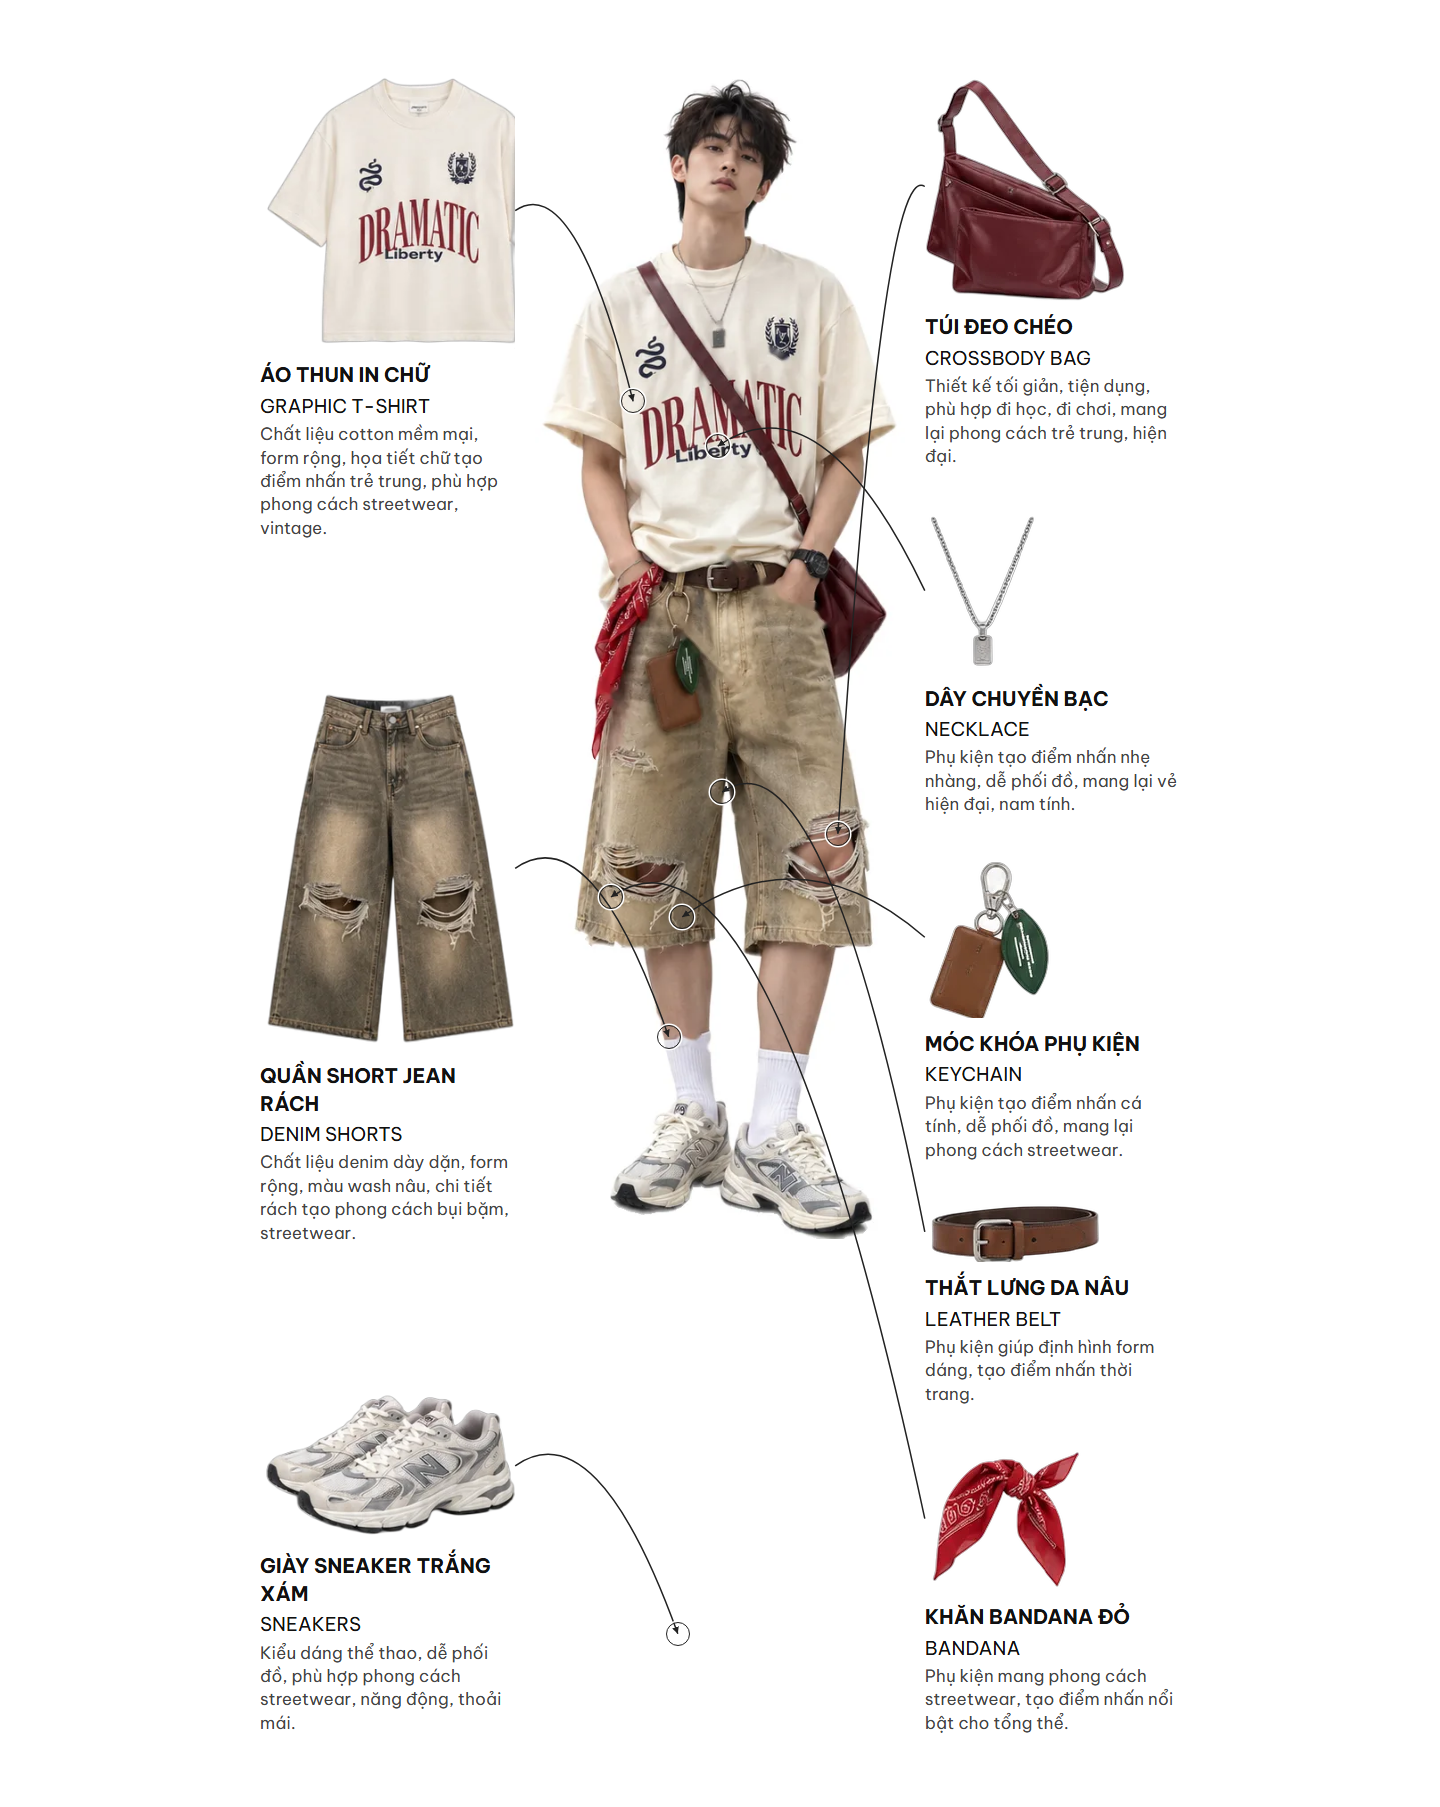
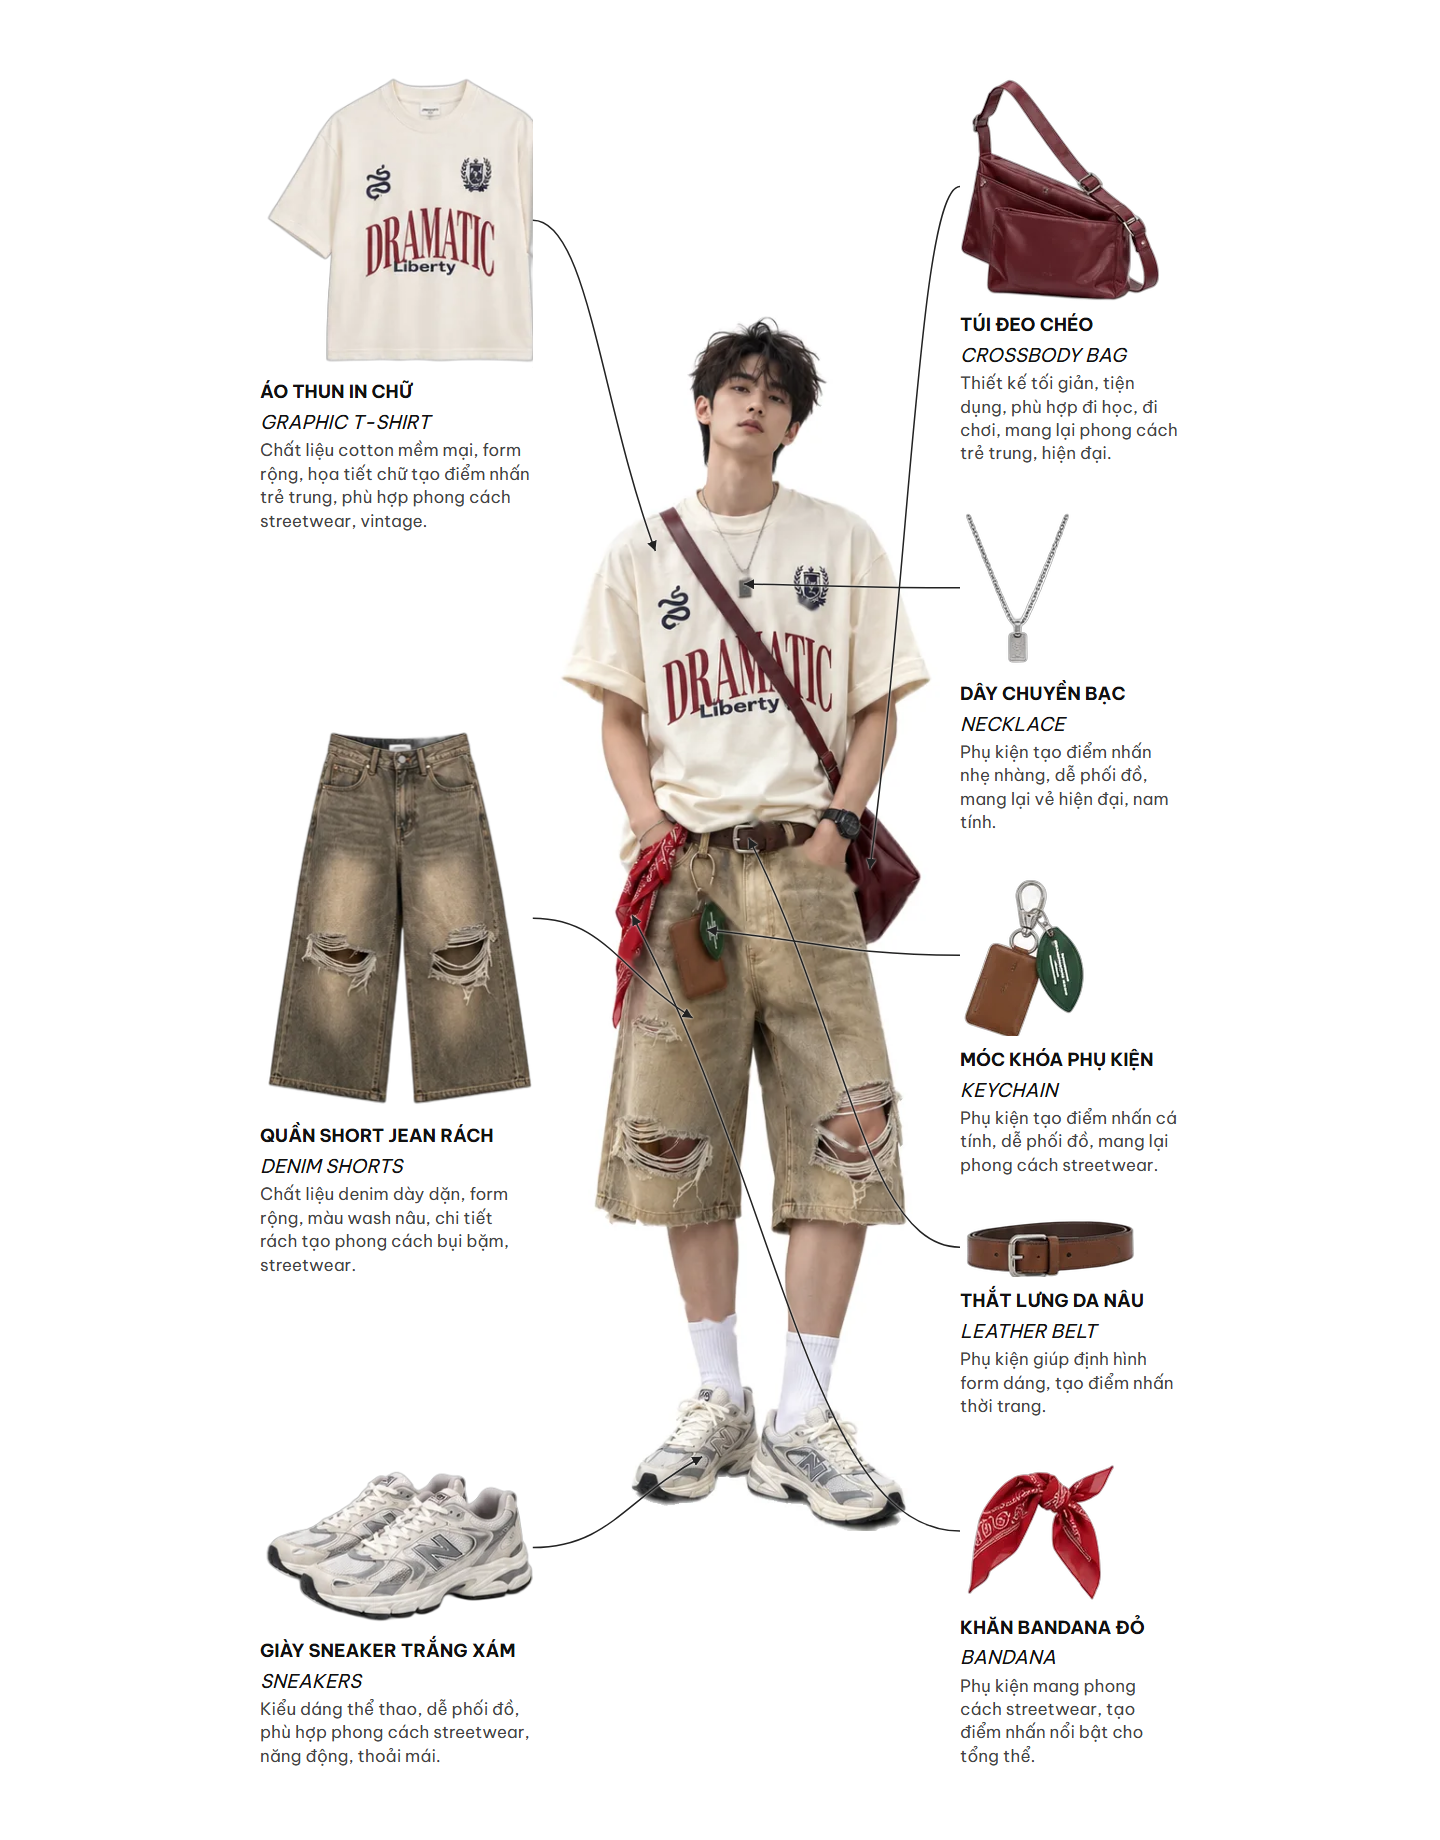
fix: align lookbook with reference design and anchor hotspots to the model image
Cubic connector curves with visible arrowheads, hotspots hidden at rest, italic subtitles, retuned column tokens, pins instead of threads on small screens. The model figure no longer stretches to the grid row, which shifted every hotspot below its anchor; an e2e test now checks hotspot alignment.

Changed region(s): [[0.1562, 0.031, 0.8125, 0.9607], [0.1875, 0.7748, 0.375, 0.9607]]

diff --git a/apps/web/src/components/lookbook/lookbook.module.css b/apps/web/src/components/lookbook/lookbook.module.css
@@ -72,6 +72,7 @@
 .itemSubtitle {
   font-size: var(--lookbook-subtitle-size);
   font-weight: var(--font-weight-regular);
+  font-style: italic;
   line-height: var(--lookbook-line-height);
   color: var(--color-ink);
 }
@@ -84,6 +85,8 @@
 
 .model {
   position: relative;
+  /* Hotspots are positioned in % of this box, so it must be exactly the image's height, not the stretched row. */
+  align-self: center;
   min-width: 0;
   margin: 0;
 }
@@ -91,21 +94,33 @@
 .hotspot {
   position: absolute;
   z-index: 2;
-  width: var(--space-5);
-  height: var(--space-5);
+  width: var(--lookbook-hotspot-size);
+  height: var(--lookbook-hotspot-size);
   transform: translate(-50%, -50%);
-  border: var(--lookbook-connector-width) solid var(--color-line);
   border-radius: 50%;
-  box-shadow: 0 0 0 var(--lookbook-connector-width) var(--color-page);
+  background: transparent;
   transition: opacity var(--duration-base) var(--easing-standard);
 }
 
+/* Invisible at rest (the reference shows no circles); a ring appears only for the active item. */
 .hotspot::after {
   content: '';
   position: absolute;
-  inset: calc(var(--lookbook-connector-width) * -1);
+  inset: calc(50% - var(--lookbook-hotspot-ring-size) / 2);
+  border: var(--lookbook-connector-width) solid var(--color-line);
   border-radius: 50%;
+  background: var(--lookbook-hotspot-ring-bg);
+  opacity: 0;
+  transform: scale(0.5);
   pointer-events: none;
+  transition:
+    opacity var(--duration-base) var(--easing-standard),
+    transform var(--duration-base) var(--easing-standard);
+}
+
+.hotspot[data-active]::after {
+  opacity: 1;
+  transform: scale(1);
 }
 
 .connectors {
@@ -116,6 +131,8 @@
   height: 100%;
   overflow: visible;
   pointer-events: none;
+  /* Light halo keeps threads and arrowheads readable over dark garments, as in the reference. */
+  filter: drop-shadow(0 0 var(--lookbook-connector-halo) var(--color-page));
 }
 
 .connector {
@@ -147,23 +164,20 @@
   filter: drop-shadow(0 var(--space-1) var(--space-2) var(--color-muted));
 }
 
-.hotspot[data-active]::after {
-  animation: lookbook-pulse calc(var(--duration-base) * 4) var(--easing-standard) infinite;
-}
-
-@keyframes lookbook-pulse {
-  from {
-    box-shadow: 0 0 0 0 var(--color-line);
-  }
-  to {
-    box-shadow: 0 0 0 var(--space-3) transparent;
-  }
-}
-
 /* Breakpoint mirrors --lookbook-hide-description-below (640px); media queries cannot read custom properties. */
 @media (max-width: 639.98px) {
   .itemDescription {
     display: none;
+  }
+
+  /* Threads would tangle over the small model: show pins instead and let the item list carry the link. */
+  .connectors {
+    display: none;
+  }
+
+  .hotspot::after {
+    opacity: 1;
+    transform: scale(1);
   }
 }
 
@@ -175,7 +189,7 @@
     transition: none;
   }
 
-  .hotspot[data-active]::after {
-    animation: none;
+  .hotspot::after {
+    transition: none;
   }
 }

diff --git a/apps/web/test/lookbook/compute-connector-paths.test.ts b/apps/web/test/lookbook/compute-connector-paths.test.ts
@@ -12,21 +12,31 @@ const right: ConnectorInput = {
 };
 
 describe('computeConnectorPath', () => {
-  it('starts at the inner (right) edge of a left item image and ends at the hotspot', () => {
-    expect(computeConnectorPath(left, 0.5).d).toBe('M 100 150 Q 200 -50 300 50');
+  it('leaves the inner (right) edge of a left item horizontally and ends at the anchor', () => {
+    expect(computeConnectorPath(left, 0.5).d).toBe('M 100 150 C 200 150 200 100 300 50');
   });
 
-  it('starts at the inner (left) edge of a right item image', () => {
-    expect(computeConnectorPath(right, 0.5).d).toBe('M 500 150 Q 400 50 300 400');
+  it('leaves the inner (left) edge of a right item horizontally', () => {
+    expect(computeConnectorPath(right, 0.5).d).toBe('M 500 150 C 400 150 400 275 300 400');
   });
 
-  it('bows above the higher of the two endpoints when the hotspot is lower than the image', () => {
+  it('curves down when the anchor is lower than the item', () => {
     const { d } = computeConnectorPath({ ...left, end: { x: 300, y: 500 } }, 0.5);
-    expect(d).toBe('M 100 150 Q 200 50 300 500');
+    expect(d).toBe('M 100 150 C 200 150 200 325 300 500');
   });
 
-  it('is a straight-ish line when the ratio is 0', () => {
-    expect(computeConnectorPath(left, 0).d).toBe('M 100 150 Q 200 50 300 50');
+  it('curves up when the anchor is higher than the item', () => {
+    const { d } = computeConnectorPath(left, 0.25);
+    expect(d).toBe('M 100 150 C 150 150 250 75 300 50');
+  });
+
+  it('is a straight line when the ratio is 0', () => {
+    expect(computeConnectorPath(left, 0).d).toBe('M 100 150 C 100 150 300 50 300 50');
+  });
+
+  it('keeps the first handle on the start y so the thread leaves horizontally', () => {
+    const nums = computeConnectorPath(right, 0.4).d.match(/-?\d+(\.\d+)?/g)!.map(Number);
+    expect(nums[3]).toBe(nums[1]);
   });
 
   it('keeps the id of its input', () => {
@@ -38,7 +48,7 @@ describe('computeConnectorPaths', () => {
   it('maps every input and falls back to ratio 0 for a non-finite ratio', () => {
     const paths = computeConnectorPaths([left, right], Number.NaN);
     expect(paths.map((p) => p.id)).toEqual(['a', 'b']);
-    expect(paths[0]?.d).toBe('M 100 150 Q 200 50 300 50');
+    expect(paths[0]?.d).toBe('M 100 150 C 100 150 300 50 300 50');
   });
 
   it('returns an empty list for no input', () => {

diff --git a/apps/web/src/components/lookbook/compute-connector-paths.ts b/apps/web/src/components/lookbook/compute-connector-paths.ts
@@ -12,7 +12,7 @@ export interface ConnectorInput {
   id: string;
   side: ConnectorSide;
   image: RelativeRect;
-  /** Hotspot centre, relative to the lookbook root. */
+  /** Anchor point on the model (hotspot centre), relative to the lookbook root. */
   end: { x: number; y: number };
 }
 
@@ -23,17 +23,22 @@ export interface ConnectorPath {
 
 const round = (n: number): number => Math.round(n * 100) / 100;
 
-/** Quadratic curve from the inner edge of the item image to the hotspot, bowing upward. */
+/**
+ * Cubic curve from the inner edge of the item image to the anchor. It leaves the item horizontally
+ * and bends toward the anchor, so it curves down for a lower anchor and up for a higher one.
+ * `curveRatio` is the share of the horizontal span used for both handles (about 0.1 to 0.5).
+ */
 export function computeConnectorPath(input: ConnectorInput, curveRatio: number): ConnectorPath {
   const { image, side, end } = input;
   const sx = side === 'left' ? image.right : image.left;
   const sy = (image.top + image.bottom) / 2;
-  const cx = (sx + end.x) / 2;
-  const cy = Math.min(sy, end.y) - Math.abs(end.x - sx) * curveRatio;
-  return {
-    id: input.id,
-    d: `M ${round(sx)} ${round(sy)} Q ${round(cx)} ${round(cy)} ${round(end.x)} ${round(end.y)}`,
-  };
+  const dx = end.x - sx;
+  const dy = end.y - sy;
+  const c1x = sx + dx * curveRatio;
+  const c2x = end.x - dx * curveRatio;
+  const c2y = end.y - dy * curveRatio;
+  const pts = [sx, sy, c1x, sy, c2x, c2y, end.x, end.y].map(round);
+  return { id: input.id, d: `M ${pts[0]} ${pts[1]} C ${pts[2]} ${pts[3]} ${pts[4]} ${pts[5]} ${pts[6]} ${pts[7]}` };
 }
 
 export function computeConnectorPaths(inputs: readonly ConnectorInput[], curveRatio: number): ConnectorPath[] {

diff --git a/apps/web/src/styles/design-tokens.css b/apps/web/src/styles/design-tokens.css
@@ -1,6 +1,6 @@
 /*
  * Design tokens, measured from assets-source/lookbook-samples/*-reference.png (941 x 1672).
- * Reference px -> ratio of the 941px canvas: title 20px (2.1%), description 17px (1.8%),
+ * Reference px -> ratio of the 941px canvas: title 20px (2.1%, set to 1.9% as Be Vietnam Pro is wider than the reference font), description 17px (1.8%),
  * model ~395px wide (42%), item image ~270-340px (30%), connector stroke ~1.5px.
  * Values here are defaults; change them here only, never inline in components.
  */
@@ -18,7 +18,7 @@
   --font-sans: var(--font-be-vietnam-pro), system-ui, -apple-system, 'Segoe UI', sans-serif;
   --font-weight-regular: 400;
   --font-weight-bold: 700;
-  --lookbook-title-size: clamp(11px, 2.1vw, 20px);
+  --lookbook-title-size: clamp(11px, 1.9vw, 18px);
   --lookbook-subtitle-size: clamp(11px, 2vw, 19px);
   --lookbook-description-size: clamp(11px, 1.8vw, 17px);
   --lookbook-line-height: 1.38;
@@ -43,15 +43,19 @@
 
   /* Lookbook layout: three columns, left items / model / right items */
   --lookbook-max-width: 960px;
-  --lookbook-col-left: 29fr;
-  --lookbook-col-model: 42fr;
-  --lookbook-col-right: 29fr;
+  --lookbook-col-left: 31fr;
+  --lookbook-col-model: 44fr;
+  --lookbook-col-right: 25fr;
   --lookbook-item-image-ratio: 1 / 1;
 
   /* Connector (SVG thread from item to anchor on the model) */
   --lookbook-connector-width: 1.5px;
-  --lookbook-curve-ratio: 0.35;
-  --lookbook-arrow-size: 7px;
+  --lookbook-curve-ratio: 0.45;
+  --lookbook-arrow-size: 10px;
+  --lookbook-connector-halo: 1px;
+  --lookbook-hotspot-size: 24px;
+  --lookbook-hotspot-ring-size: 12px;
+  --lookbook-hotspot-ring-bg: var(--color-page);
 
   /* Interaction */
   --lookbook-dim-opacity: 0.35;

diff --git a/e2e/public-hotspot-alignment.spec.ts b/e2e/public-hotspot-alignment.spec.ts
@@ -1,0 +1,33 @@
+/// <reference lib="dom" />
+import { test, expect } from '@playwright/test';
+
+const SLUGS = ['dramatic', 'mesh-84'];
+const WIDTHS = [1440, 390];
+const TOLERANCE_PX = 2;
+
+// Anchors are stored as % of the model image, so each hotspot centre must land on that spot of the rendered image.
+for (const slug of SLUGS) {
+  for (const width of WIDTHS) {
+    test(`hotspots sit on their anchor of the model image: ${slug} @${width}`, async ({ page }) => {
+      await page.setViewportSize({ width, height: 900 });
+      await page.goto(`/look/${slug}`);
+      const offsets = await page.evaluate(() => {
+        const figure = document.querySelector('[data-lookbook] figure');
+        const img = figure?.querySelector('img');
+        if (!figure || !img) throw new Error('model figure not found');
+        const box = img.getBoundingClientRect();
+        const figureBox = figure.getBoundingClientRect();
+        const hotspots = [...figure.querySelectorAll<HTMLElement>('[data-hotspot]')].map((el) => {
+          const r = el.getBoundingClientRect();
+          const x = box.left + (Number.parseFloat(el.style.left) / 100) * box.width;
+          const y = box.top + (Number.parseFloat(el.style.top) / 100) * box.height;
+          return Math.max(Math.abs(r.left + r.width / 2 - x), Math.abs(r.top + r.height / 2 - y));
+        });
+        return { heightGap: Math.abs(figureBox.height - box.height), hotspots };
+      });
+      expect(offsets.hotspots.length).toBeGreaterThan(0);
+      expect(offsets.heightGap).toBeLessThanOrEqual(TOLERANCE_PX);
+      for (const offset of offsets.hotspots) expect(offset).toBeLessThanOrEqual(TOLERANCE_PX);
+    });
+  }
+}

diff --git a/plans/reports/fullstack-developer-261106-1800-lookbook-match-reference.md b/plans/reports/fullstack-developer-261106-1800-lookbook-match-reference.md
@@ -1,0 +1,33 @@
+# Báo cáo: lookbook công khai khớp ảnh mẫu
+
+## Thay đổi (chỉ trong file được giao)
+- `apps/web/src/components/lookbook/compute-connector-paths.ts`: quadratic -> cubic Bézier. Điểm điều khiển 1 nằm ngang với điểm đầu (sx + dx*r, sy); điểm điều khiển 2 = (ex - dx*r, ey - dy*r). Đường rời thẻ theo phương ngang, cong xuống khi điểm neo thấp hơn, cong lên khi cao hơn. Đầu mũi tên nằm đúng điểm neo.
+- `lookbook.module.css`: hotspot trong suốt khi nghỉ (vùng bấm 24px, `:focus-visible` giữ nguyên từ globals.css); khi `data-active` hiện vòng tròn nhỏ 12px (nền trắng, viền tối). Subtitle `font-style: italic`. Thêm halo sáng quanh SVG để thread/mũi tên đọc được trên vùng tối (như ảnh mẫu).
+- `design-tokens.css`: `--lookbook-curve-ratio` 0.35 -> 0.45 (chọn bằng so ảnh); `--lookbook-arrow-size` 7 -> 10px; token mới `--lookbook-hotspot-size`, `--lookbook-hotspot-ring-size`, `--lookbook-hotspot-ring-bg`, `--lookbook-connector-halo`; cột 29/42/29 -> 31/44/25fr; cỡ tiêu đề clamp(11px, 1.9vw, 18px) (font Be Vietnam Pro rộng hơn font mẫu, nên không giữ 2.1%/20px). Tiêu đề "QUẦN SHORT JEAN RỘNG" nay một dòng ở 1440.
+- `apps/web/test/lookbook/compute-connector-paths.test.ts`: viết lại cho toán cubic (xuống/lên, ratio 0, handle đầu giữ y). Không xoá test.
+- e2e: không cần đổi, giữ nguyên `data-lookbook`, `data-active-id`, `data-active`, `path[data-item-id]`.
+
+## Mobile (dưới 640px): chọn ẩn thread, hiện pin
+Thread trên model ~130px rộng cắt chéo, chồng nhau (xem ảnh trước đó trong tester-261106-1737). Chọn: ẩn SVG thread, hiện vòng tròn nhỏ cố định trên hotspot để vẫn thấy điểm trên người mẫu và bấm được (24px). Lý do: thread nhạt hơn vẫn chồng nhau vì các điểm neo dồn cụm; pin đọc rõ hơn và danh sách món bên cạnh vẫn là đường link chính. Mô tả vẫn ẩn dưới 640px. 390 và 320: không tràn ngang, chữ >= 11px (e2e xác nhận).
+
+## Lệnh và kết quả
+- `pnpm --filter @under30ss/web test`: 28 file, 166 test pass.
+- `pnpm lint`: 0 lỗi, 1 warning có sẵn (`apps/api/test/outfits-admin-crud.test.ts:29`).
+- `pnpm typecheck`: pass (một lần chạy đầu api báo fail trong lúc chạy song song, chạy lại pass; chưa rõ nguyên nhân, không liên quan file đã sửa).
+- Rebuild web (docker compose up -d --build web), `pnpm e2e`: 13/13 pass, hai lần liên tiếp (8.1s, 7.5s).
+
+## Ảnh (plans/261106-1201-under30ss-shop-the-look/visuals/)
+- Trước: `e2e-compare-mesh-84-1440-vs-ref.png`, `e2e-compare-dramatic-1440-vs-ref.png`.
+- Sau: `e2e-compare-mesh-84-1440-vs-ref-after.png`, `e2e-compare-dramatic-1440-vs-ref-after.png`, `e2e-mesh-84-390-after.png`, `e2e-dramatic-390-after.png`.
+- Ảnh e2e-*-1440/390.png gốc sẽ được ghi đè lần `pnpm e2e` kế tiếp (đã ghi đè trong hai lần chạy vừa rồi bằng bản mới).
+
+## Còn khác ảnh mẫu
+- Một số điểm neo nằm ngoài người mẫu (giày mesh-84, tất, giày dramatic): dữ liệu seed, ngoài phạm vi.
+- Người mẫu nhỏ hơn mẫu: ảnh model hiện là crop tạm có lề trắng, không chỉnh được bằng token.
+- Cột phải vẫn xuống dòng nhiều hơn mẫu (mô tả 3-4 dòng so với 3); ảnh mẫu dùng font hẹp hơn.
+- Thread vẫn mảnh hơn một chút so với mẫu; đường của mẫu có dáng tay vẽ hơn (đoạn cuối gập cong rõ).
+- Chưa chụp riêng ảnh hover trạng thái vòng tròn (đã chạy e2e hover pass).
+
+**Status:** DONE_WITH_CONCERNS
+**Summary:** Mũi tên hiện rõ ở điểm neo, hotspot vô hình khi nghỉ, thread cubic cong lên/xuống, subtitle italic, tỉ lệ cột/chữ chỉnh qua token, mobile ẩn thread và hiện pin. Test, lint, typecheck, e2e (2 lần) đều pass.
+**Concerns/Blockers:** Neo lệch người mẫu và crop model là dữ liệu tạm nên khác mẫu ở một số món; pnpm typecheck fail một lần thoáng qua ở api rồi pass.
